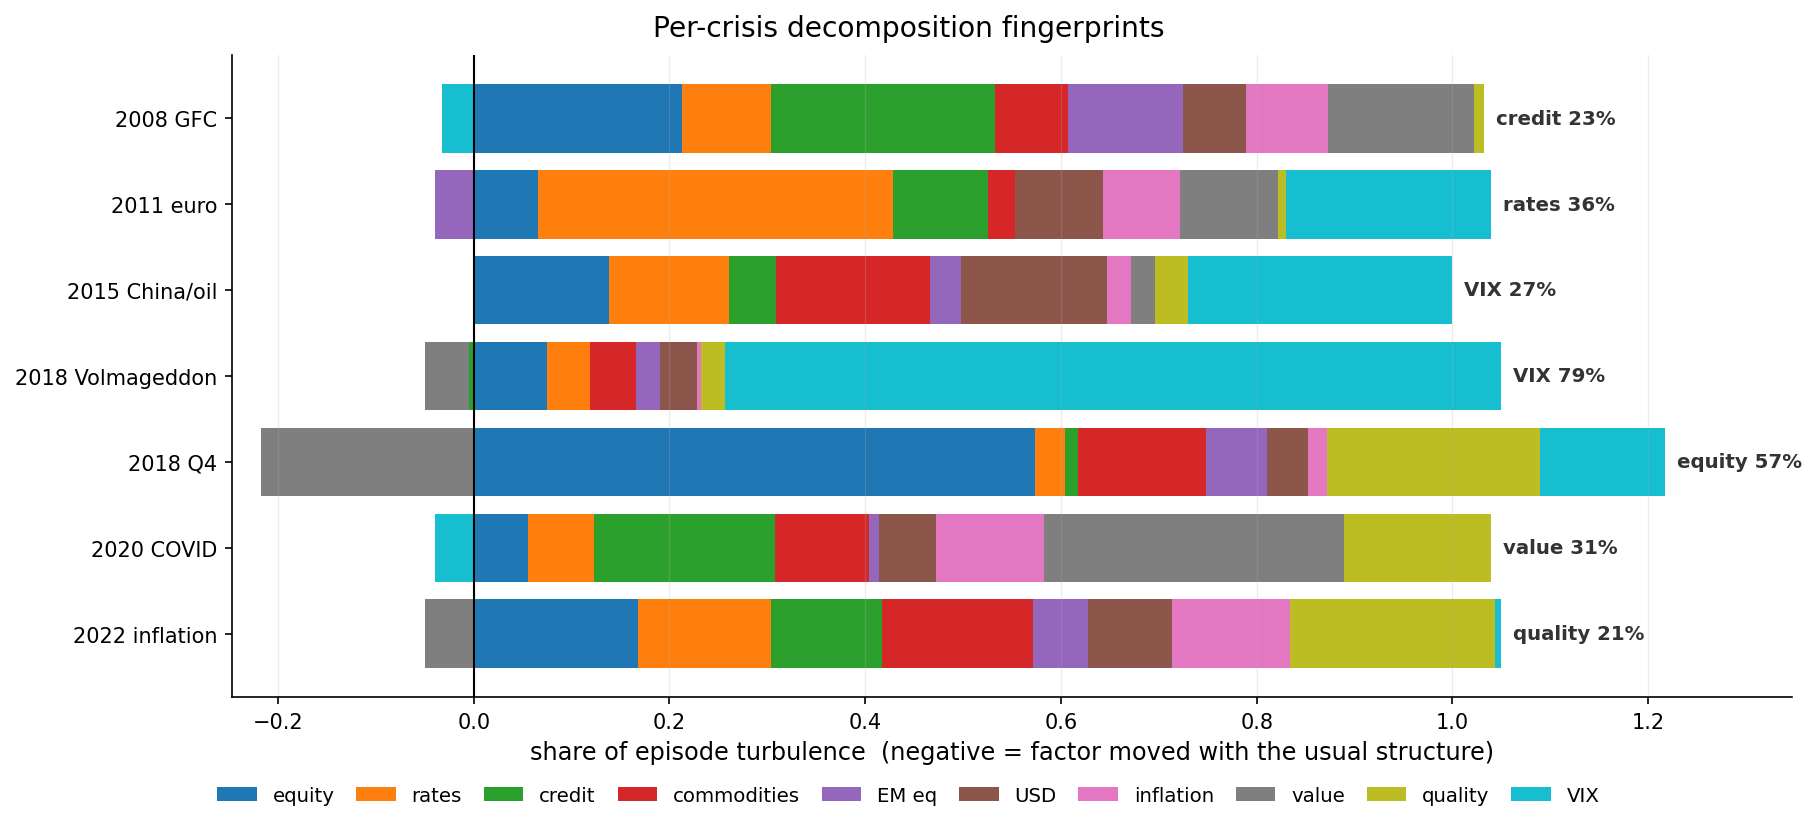
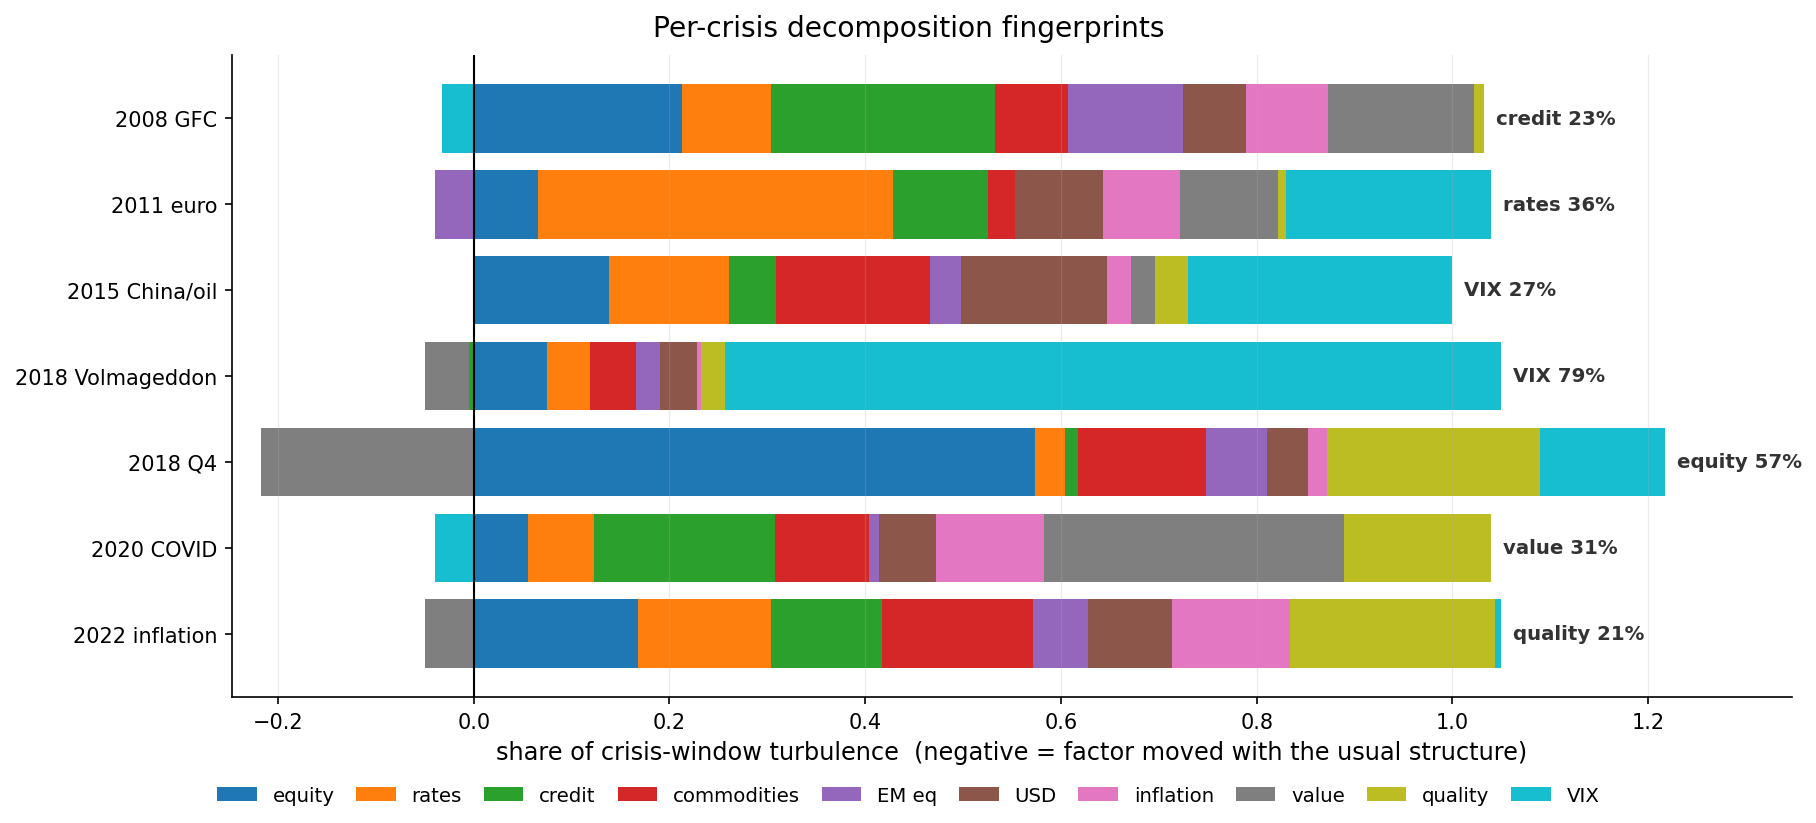
thesis_figures: correct the Figure 4.3 axis label to crisis-window turbulence

Changed region(s): [[0.2775, 0.8809, 0.8326, 0.9417]]

diff --git a/thesis_figures.py b/thesis_figures.py
@@ -188,7 +188,7 @@ def fig_crisis_drivers():
     ax.axvline(0, color="black", lw=1.0, zorder=4)
     ax.set_yticks(y); ax.set_yticklabels(df.index); ax.invert_yaxis()
     ax.set_xlim(neg.min()-0.03, pos.max()+0.13)
-    ax.set_xlabel("share of episode turbulence  (negative = factor moved with the usual structure)")
+    ax.set_xlabel("share of crisis-window turbulence  (negative = factor moved with the usual structure)")
     ax.grid(axis="y", visible=False)
     # Legend goes BELOW the plot so the title owns the top strip: with ten
     # entries the two overprint each other if they share a row.
